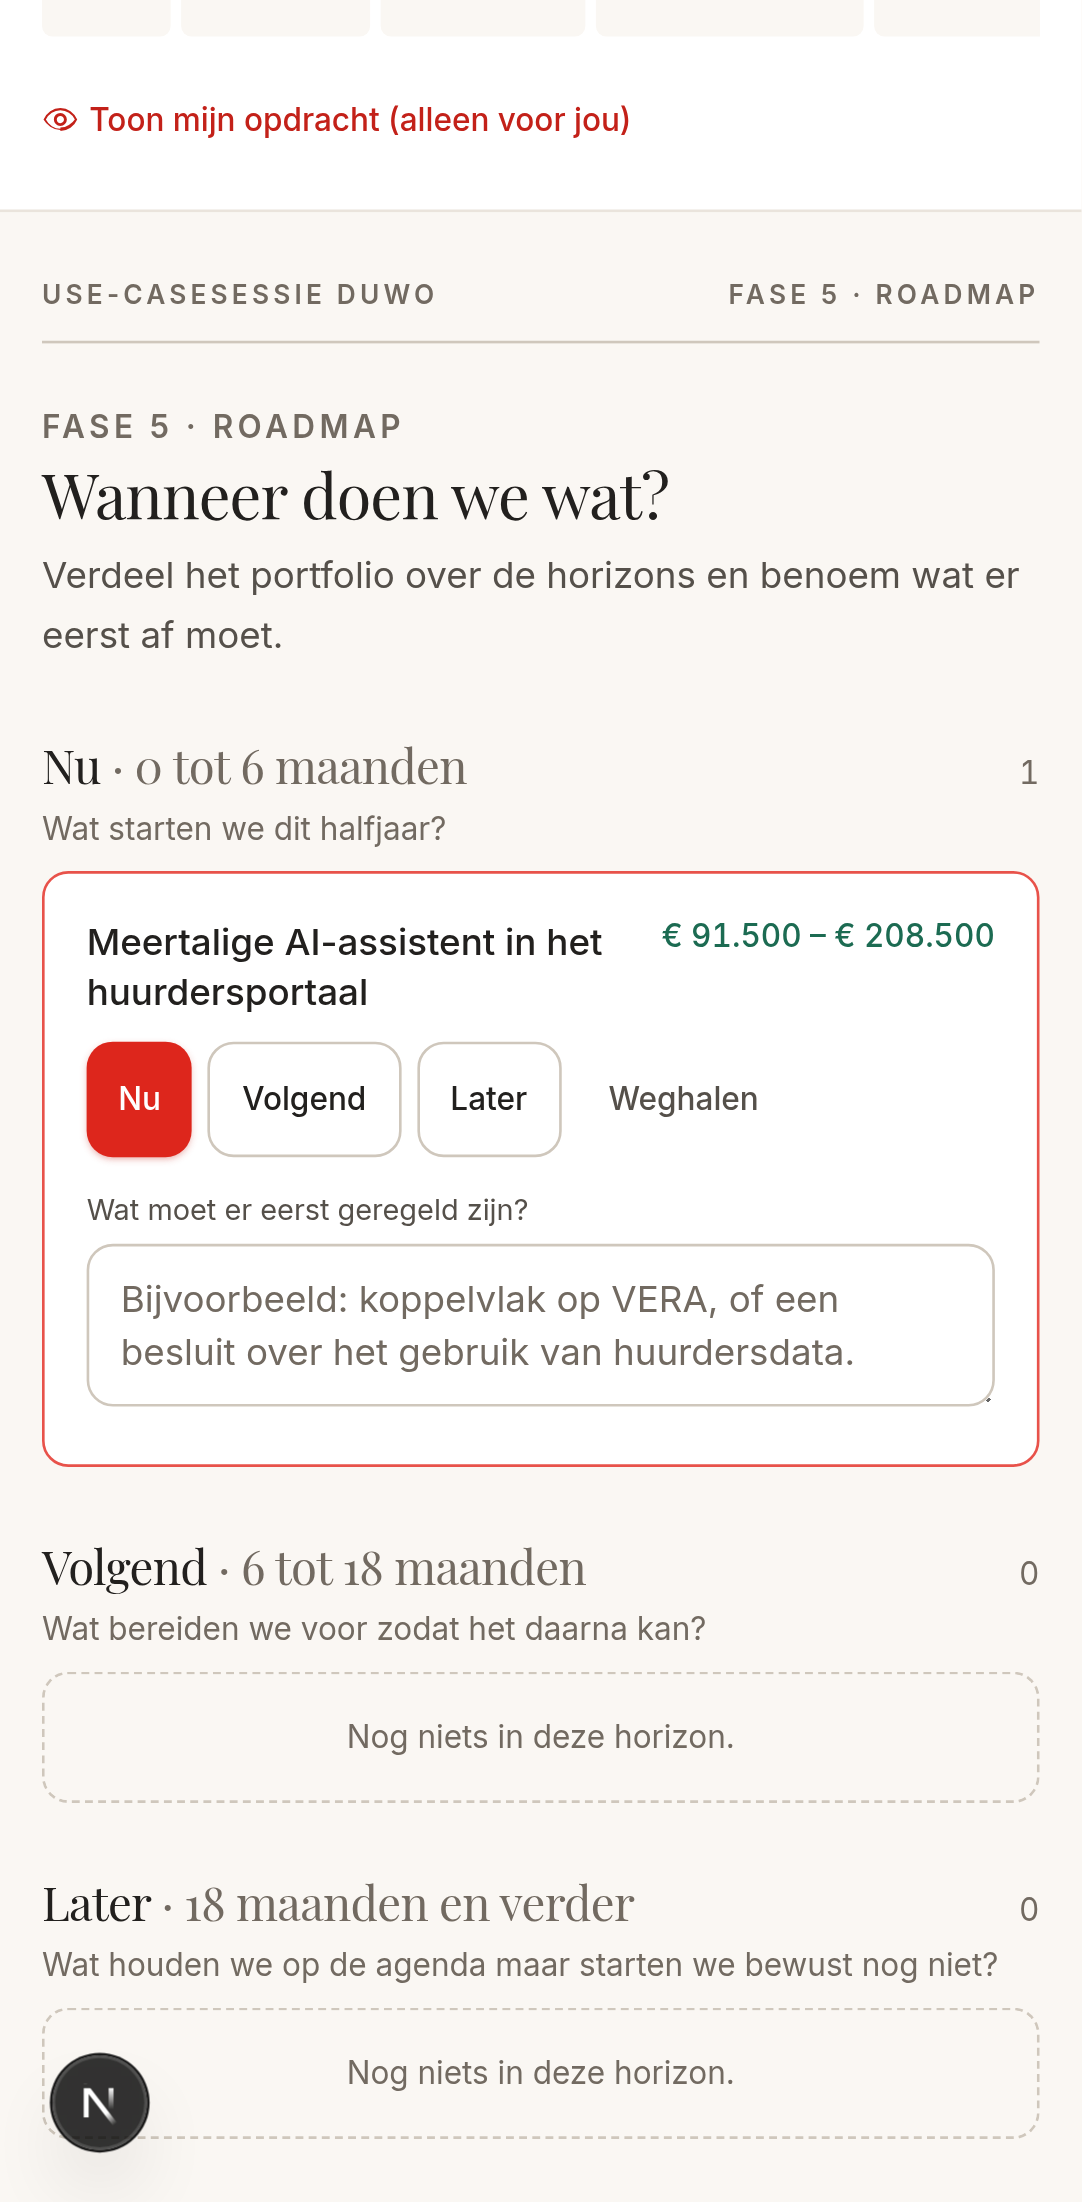
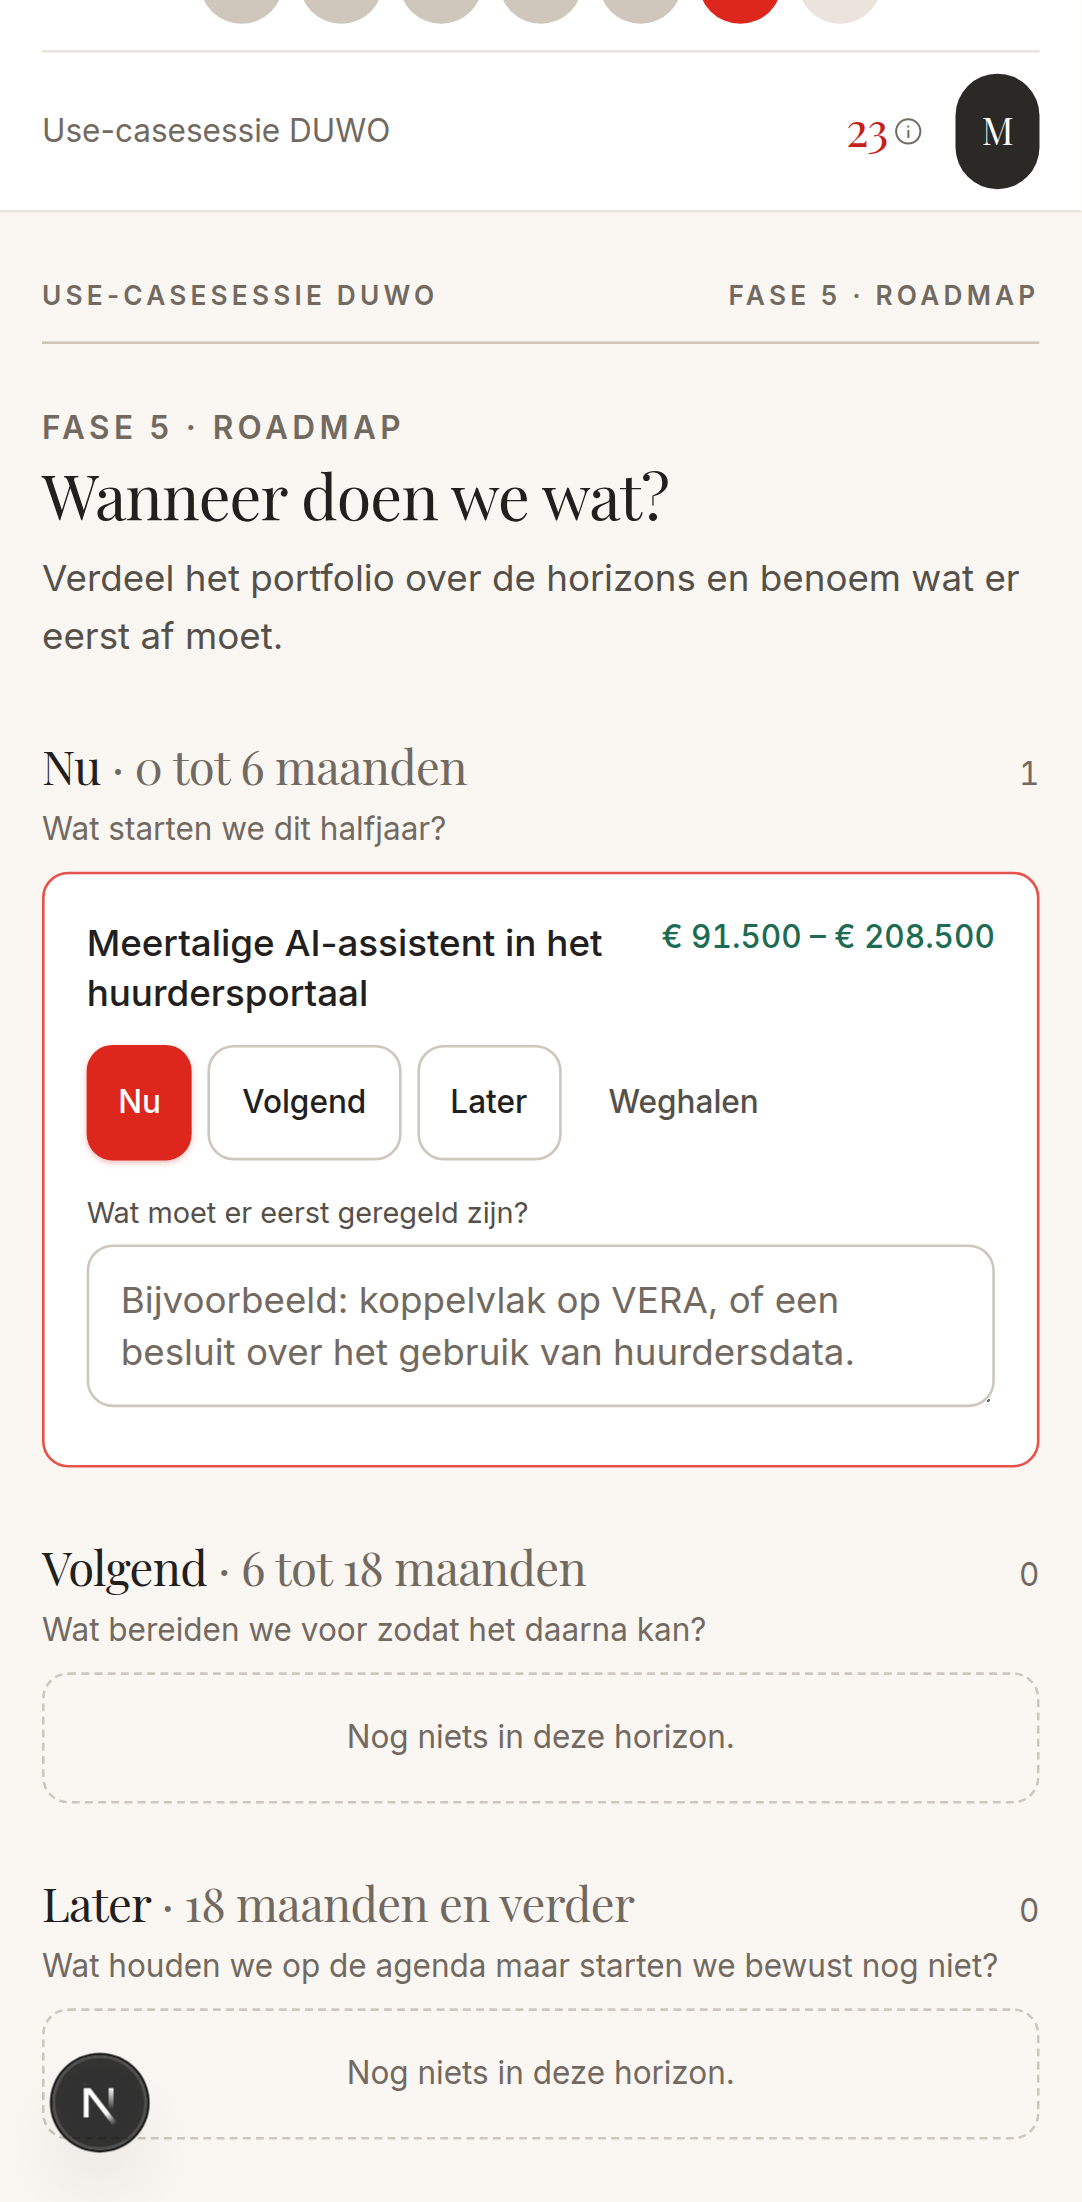
Compacte navigatiebalk: fasenstappen als stippenrij, rol/opdracht achter een tik
Richting B uit een mockupronde met drie composities voor de vaste kopbalk, die
zo'n 180-220 px innam voordat er inhoud in beeld kwam: sessietitel, rolnaam,
teamscore, zeven fasetabs met tekst (op een telefoon afgekapt, dus nooit in één
oogopslag te zien) en soms nog de voorloopmelding en de opdrachtknop.

Nu twee compacte regels (~76 px):
- Een stappenrij van zeven stippen, altijd volledig zichtbaar zonder scrollen.
  Geen tekstlabels meer nodig: elke fasepagina toont de naam toch al als
  kopregel ("FASE 1 · VERKENNEN"), dus een tweede keer dezelfde tekst in de balk
  voegt niets toe. Vier zichtbare toestanden per stip (was drie, als tekstkleur):
  bekeken (vol accent-sterk), waar de groep staat maar dat wordt niet bekeken
  (accent-zacht, een eigen herkenbare tint), voorbij (rand-sterk), nog te gaan
  (rand).
- Een dunne contextregel: sessietitel links, teamscore en een avatarknopje
  (initiaal van de deelnemer) rechts.

Rolnaam en de rolopdracht ("Toon mijn opdracht") stonden los en continu in
beeld; die horen inhoudelijk bij elkaar ("wie ben ik hier") en worden maar af en
toe geraadpleegd, dus staan nu samen achter het avatarknopje. Teamscore-uitleg
en de voorloopmelding werken ongewijzigd, alleen verplaatst naar de nieuwe,
compactere plek.

`text-accent` bleek bij het bouwen niet toegestaan op kleine tekst (3,43 op
papier, genoeg voor grote tekst maar niet voor klein) — de eigen contrasttest in
[…]

diff --git a/src/components/sessiebalk.tsx b/src/components/sessiebalk.tsx
@@ -15,13 +15,16 @@ import { InfoIcoon, OogDichtIcoon, OogIcoon, SyncIcoon, WaarschuwingIcoon } from
 /**
  * De vaste kop boven elk spelerscherm: waar zijn we, wie ben ik, hoe staat het team ervoor.
  *
- * De fasetabs zijn hier klikbaar: iedere deelnemer navigeert zelf, zonder op de facilitator te
- * wachten. `sessie.fase` blijft de gezamenlijke stand; wie zijn eigen tabblad niet aanraakt volgt
- * die automatisch mee (`eigen_fase` is dan null). Wie zelf doorklikt naar een latere fase dan de
- * groep ziet daaronder de waarschuwing dat hij voorloopt — geen blokkade, alleen een seintje.
+ * De stappenrij is hier klikbaar: iedere deelnemer navigeert zelf, zonder op de facilitator te
+ * wachten. `sessie.fase` blijft de gezamenlijke stand; wie zijn eigen stap niet aanraakt volgt die
+ * automatisch mee (`eigen_fase` is dan null). Wie zelf doorklikt naar een latere fase dan de groep
+ * ziet daaronder de waarschuwing dat hij voorloopt — geen blokkade, alleen een seintje.
  *
- * De rolopdracht zit hier achter een knop en niet open in beeld: hij is privé tot de onthulling,
- * en iemand die zijn telefoon laat zien mag hem niet per ongeluk weggeven.
+ * De zeven fasen staan als stippen, zonder tekst: met tekstlabels erbij paste de rij niet in één
+ * regel op een telefoon, en elke fasepagina toont de naam toch al als kopregel ("FASE 1 ·
+ * VERKENNEN") — een tweede keer dezelfde tekst in de balk voegt niets toe. Rol, sessietitel en de
+ * rolopdracht staan om diezelfde reden niet meer continu in beeld, maar achter het avatarknopje:
+ * die drie horen inhoudelijk bij elkaar ("wie ben ik hier") en worden maar af en toe geraadpleegd.
  */
 export function Sessiebalk({
   state,
@@ -34,6 +37,7 @@ export function Sessiebalk({
   sessieId: string;
   doe: SessieHaak["doe"];
 }) {
+  const [rolpaneelZichtbaar, setRolpaneelZichtbaar] = useState(false);
   const [opdrachtZichtbaar, setOpdrachtZichtbaar] = useState(false);
   const [scoreUitlegZichtbaar, setScoreUitlegZichtbaar] = useState(false);
   const ik = state.deelnemers.find((d) => d.id === identiteit.deelnemerId);
@@ -46,6 +50,8 @@ export function Sessiebalk({
   const teamscoreWeergegeven = useTelOp(score.totaal);
   const bekekenFase = ik ? eigenFase(ik, state) : state.sessie.fase;
   const voorloper = ik ? looptVoor(ik, state) : false;
+  const naam = mijnRol?.naam ?? ik?.naam ?? "Deelnemer";
+  const initiaal = (ik?.naam.trim().charAt(0) ?? "?").toUpperCase();
 
   async function naarFase(fase: Fase) {
     if (!ik) return;
@@ -57,57 +63,65 @@ export function Sessiebalk({
 
   return (
     <header className="border-b border-rand bg-vlak">
-      <div className="mx-auto w-full max-w-4xl px-4 py-3">
-        <div className="flex items-center justify-between gap-3">
-          <div className="min-w-0">
-            <p className="truncate text-xs text-inkt-licht">{state.sessie.titel}</p>
-            <p className="display truncate text-lg leading-tight text-inkt">
-              {mijnRol?.naam ?? ik?.naam ?? "Deelnemer"}
-            </p>
-          </div>
-          <div className="shrink-0 text-right">
-            <button
-              type="button"
-              onClick={() => setScoreUitlegZichtbaar((z) => !z)}
-              className="inline-flex items-center gap-0.5 text-xs text-inkt-licht hover:text-inkt"
-              aria-label={
-                scoreUitlegZichtbaar ? "Verberg uitleg bij de teamscore" : "Wat is de teamscore?"
-              }
-            >
-              Teamscore
-              <InfoIcoon className="h-3 w-3" />
-            </button>
-            <p className="cijfer text-3xl text-accent">{teamscoreWeergegeven}</p>
-          </div>
-        </div>
-
-        {scoreUitlegZichtbaar ? (
-          <p className="mt-2 text-xs leading-relaxed text-inkt-zacht">
-            Meet de breedte en onderbouwing van het gesprek — geen ranking tussen jullie. De volle
-            uitsplitsing staat straks bij Opbrengst.
-          </p>
-        ) : null}
-
-        <nav aria-label={`Fase, sessie ${sessieId}`}>
-          <ol className="scroll-x mt-3 flex gap-1 pb-0.5">
+      <div className="mx-auto w-full max-w-4xl px-4">
+        <nav aria-label={`Fase, sessie ${sessieId}`} className="py-2.5">
+          <ol className="flex items-center justify-center gap-1.5">
             {FASES.map((f) => (
-              <li key={f} className="shrink-0">
+              <li key={f}>
                 <button
                   type="button"
                   onClick={() => void naarFase(f)}
                   disabled={!ik}
                   aria-current={f === bekekenFase ? "step" : undefined}
-                  className={`inline-block rounded px-2 py-1 text-[11px] font-medium transition-colors disabled:cursor-not-allowed ${stijlVoorFase(f, bekekenFase, state.sessie.fase)}`}
-                >
-                  {FASE_LABELS[f]}
-                </button>
+                  aria-label={FASE_LABELS[f]}
+                  title={FASE_LABELS[f]}
+                  className={`block h-1.5 w-8 rounded-full transition-colors disabled:cursor-not-allowed disabled:opacity-40 ${stijlVoorStap(f, bekekenFase, state.sessie.fase)}`}
+                />
               </li>
             ))}
           </ol>
         </nav>
 
+        <div className="flex items-center justify-between gap-3 border-t border-rand py-2">
+          <p className="truncate text-xs text-inkt-licht">{state.sessie.titel}</p>
+          <div className="flex shrink-0 items-center gap-3">
+            <button
+              type="button"
+              onClick={() => setScoreUitlegZichtbaar((z) => !z)}
+              className="flex items-center gap-0.5"
+              title="Teamscore"
+              aria-label={
+                scoreUitlegZichtbaar
+                  ? "Verberg uitleg bij de teamscore"
+                  : `Teamscore ${teamscoreWeergegeven}. Wat betekent dit?`
+              }
+            >
+              <span className="cijfer text-lg leading-none text-accent-diep">{teamscoreWeergegeven}</span>
+              <InfoIcoon className="h-3 w-3 text-inkt-licht" />
+            </button>
+            <button
+              type="button"
+              onClick={() => setRolpaneelZichtbaar((z) => !z)}
+              aria-expanded={rolpaneelZichtbaar}
+              aria-label={
+                rolpaneelZichtbaar ? "Verberg jouw rol en opdracht" : "Toon jouw rol en opdracht"
+              }
+              className={`display flex h-8 w-8 items-center justify-center rounded-full text-sm text-white transition-colors ${rolpaneelZichtbaar ? "bg-accent-sterk" : "bg-houtskool"}`}
+            >
+              {initiaal}
+            </button>
+          </div>
+        </div>
+
+        {scoreUitlegZichtbaar ? (
+          <p className="pb-2 text-xs leading-relaxed text-inkt-zacht">
+            Meet de breedte en onderbouwing van het gesprek — geen ranking tussen jullie. De volle
+            uitsplitsing staat straks bij Opbrengst.
+          </p>
+        ) : null}
+
         {ik?.eigen_fase != null ? (
-          <div className="mt-2 space-y-1.5">
+          <div className="space-y-1.5 pb-2">
             {voorloper ? (
               <Melding toon="aandacht">
                 <span className="flex items-start gap-1.5">
@@ -128,24 +142,31 @@ export function Sessiebalk({
           </div>
         ) : null}
 
-        {opdracht ? (
-          <div className="mt-2">
-            <button
-              type="button"
-              onClick={() => setOpdrachtZichtbaar((z) => !z)}
-              className="inline-flex items-center gap-1 text-xs font-medium text-accent-diep hover:underline"
-            >
-              {opdrachtZichtbaar ? (
-                <OogDichtIcoon className="h-3.5 w-3.5" />
-              ) : (
-                <OogIcoon className="h-3.5 w-3.5" />
-              )}
-              {opdrachtZichtbaar ? "Verberg mijn opdracht" : "Toon mijn opdracht (alleen voor jou)"}
-            </button>
-            {opdrachtZichtbaar ? (
-              <p className="mt-1.5 rounded-kaart border-l-2 border-accent bg-accent-zacht px-3 py-2 text-xs leading-relaxed text-accent-diep">
-                {opdracht.opdracht}
-              </p>
+        {rolpaneelZichtbaar ? (
+          <div className="-mx-4 border-t border-houtskool-rand bg-houtskool px-4 py-4">
+            <p className="display text-xl text-white">{naam}</p>
+            {opdracht ? (
+              <div className="mt-3 border-t border-houtskool-rand pt-3">
+                <button
+                  type="button"
+                  onClick={() => setOpdrachtZichtbaar((z) => !z)}
+                  className="inline-flex items-center gap-1 text-xs font-medium text-accent-op-donker hover:underline"
+                >
+                  {opdrachtZichtbaar ? (
+                    <OogDichtIcoon className="h-3.5 w-3.5" />
+                  ) : (
+                    <OogIcoon className="h-3.5 w-3.5" />
+                  )}
+                  {opdrachtZichtbaar
+                    ? "Verberg mijn opdracht"
+                    : "Toon mijn opdracht (alleen voor jou)"}
+                </button>
+                {opdrachtZichtbaar ? (
+                  <p className="mt-1.5 rounded-kaart border-l-2 border-accent bg-houtskool-rand px-3 py-2 text-xs leading-relaxed text-white">
+                    {opdracht.opdracht}
+                  </p>
+                ) : null}
+              </div>
             ) : null}
           </div>
         ) : null}
@@ -154,16 +175,16 @@ export function Sessiebalk({
   );
 }
 
-function stijlVoorFase(fase: Fase, bekeken: Fase, sessieFase: Fase): string {
+function stijlVoorStap(fase: Fase, bekeken: Fase, sessieFase: Fase): string {
   const index = FASES.indexOf(fase);
   const bekekenIndex = FASES.indexOf(bekeken);
   const sessieIndex = FASES.indexOf(sessieFase);
 
-  if (fase === bekeken) return "bg-accent-sterk text-white";
-  // Waar de groep staat, ook als je daar zelf niet naar kijkt: een dunne rand in plaats van vulling.
-  if (fase === sessieFase) return "border border-accent text-inkt-zacht";
-  if (index < Math.max(bekekenIndex, sessieIndex)) return "bg-papier text-inkt-licht";
-  return "text-inkt-licht hover:text-inkt";
+  if (fase === bekeken) return "bg-accent-sterk";
+  // Waar de groep staat, ook als je daar zelf niet naar kijkt: een eigen, herkenbare tint.
+  if (fase === sessieFase) return "bg-accent-zacht";
+  if (index < Math.max(bekekenIndex, sessieIndex)) return "bg-rand-sterk";
+  return "bg-rand hover:bg-rand-sterk";
 }
 
 export function Aanwezigen({ state }: { state: SessieState }) {

diff --git a/e2e/sessie.spec.ts b/e2e/sessie.spec.ts
@@ -51,12 +51,15 @@ test("drie spelers doorlopen samen een sessie tot en met de roadmap", async ({ b
   await expect(facilitator.getByText("Peter")).toBeVisible();
 
   // --- Privé-rolopdracht lekt niet -----------------------------------------
+  // De opdracht zit achter het rolpaneel, dat zelf achter het avatarknopje in de balk zit.
+  await wonen.getByRole("button", { name: "Toon jouw rol en opdracht" }).click();
   await wonen.getByRole("button", { name: /Toon mijn opdracht/ }).click();
   const opdrachtVanMarieke = await wonen
     .getByText(/Zorg dat minstens twee use cases/)
     .innerText();
   expect(opdrachtVanMarieke).toContain("bewoner");
   // Peter ziet zijn eigen opdracht, niet die van Marieke.
+  await it.getByRole("button", { name: "Toon jouw rol en opdracht" }).click();
   await it.getByRole("button", { name: /Toon mijn opdracht/ }).click();
   await expect(it.getByText(/geen enkele use case het portfolio in gaat zonder benoemde databron/)).toBeVisible();
   await expect(it.getByText(/Zorg dat minstens twee use cases/)).toHaveCount(0);
